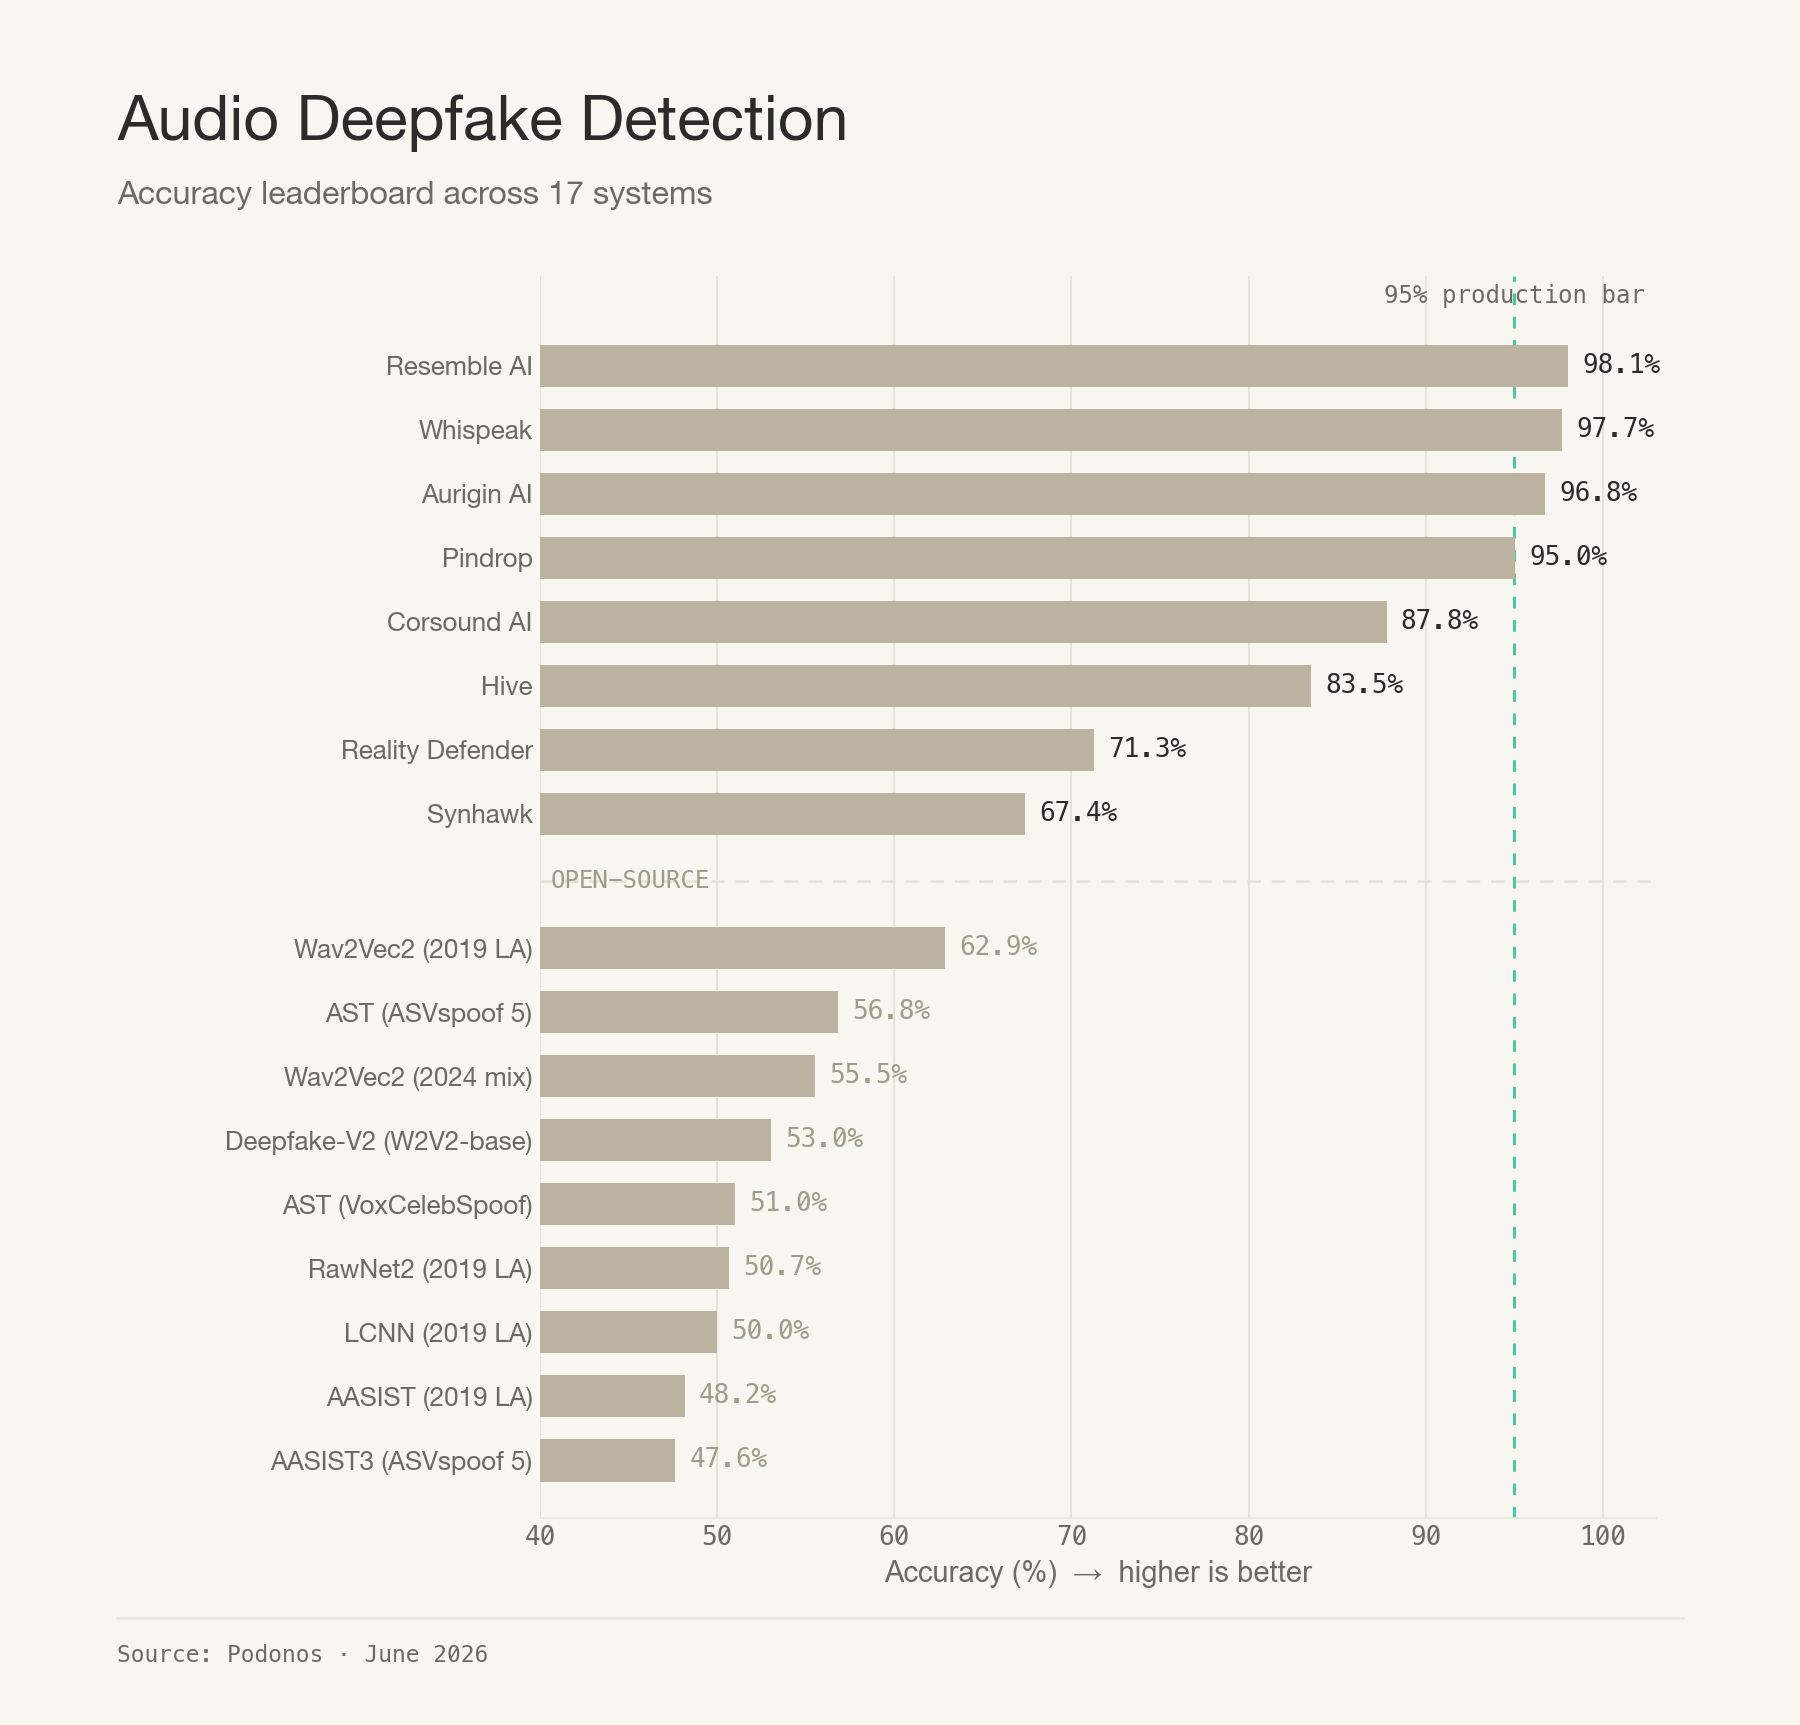
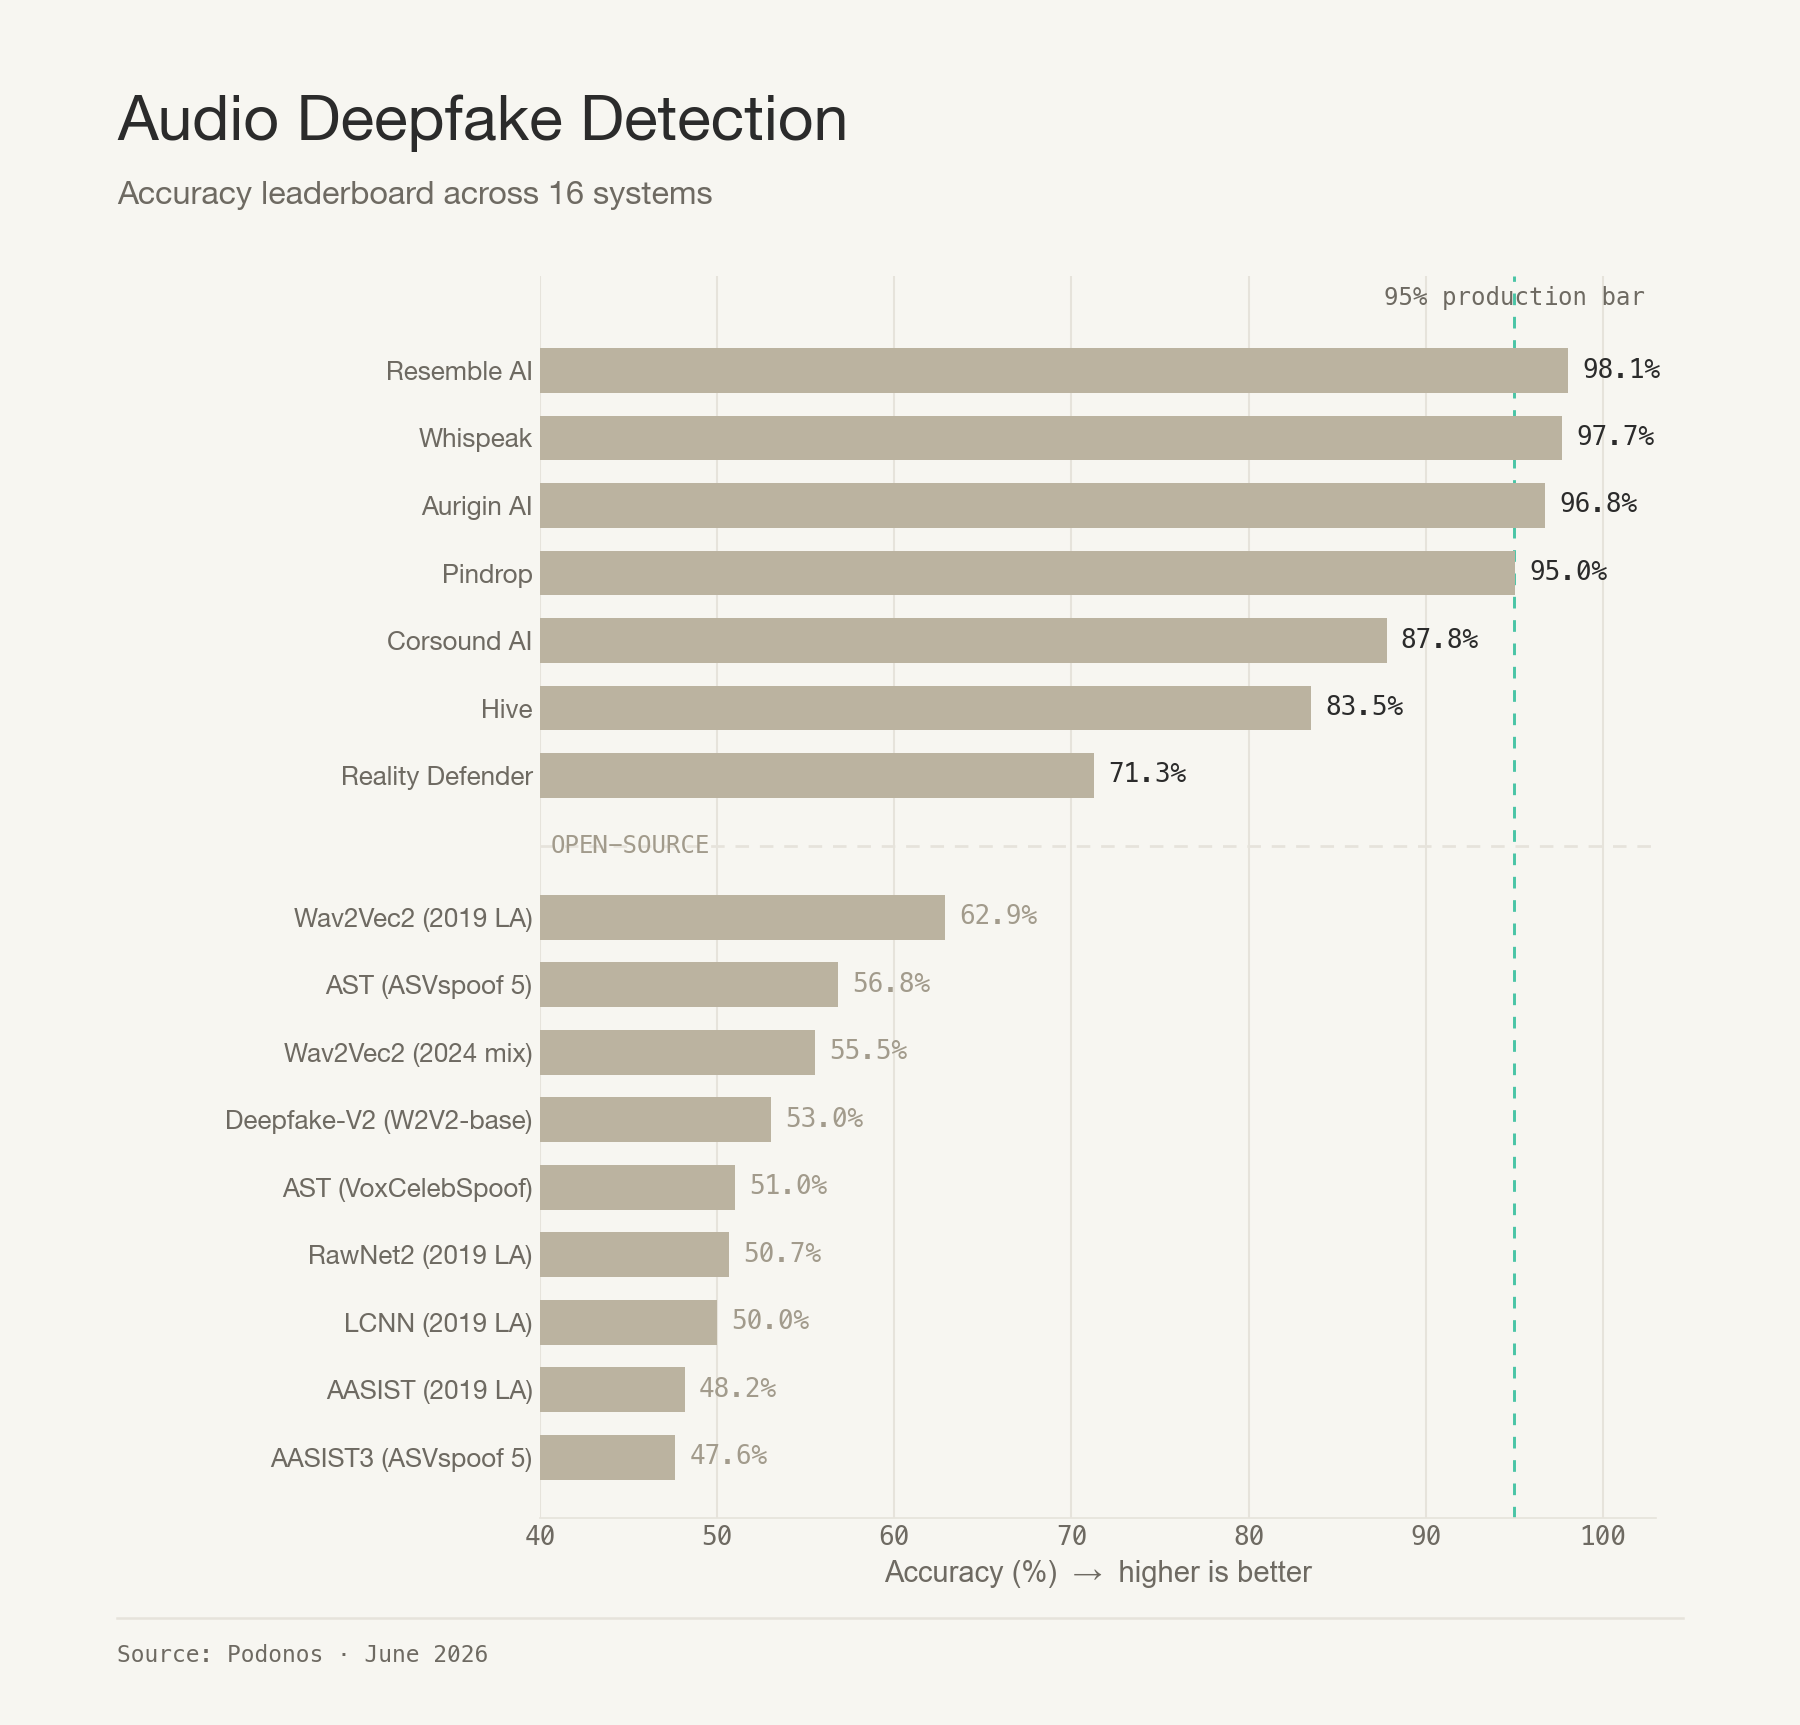
Error fix

diff --git a/README.md b/README.md
@@ -12,7 +12,7 @@ A neutral, public benchmark for evaluating audio deepfake detection systems on a
 
 ![Leaderboard — Accuracy](images/leaderboard_accuracy.png)
 
-**17 systems** evaluated — 8 commercial APIs (**bold**) and 9 open-source baselines — sorted by accuracy. Company and model names link to their source.
+**16 systems** evaluated: 7 commercial APIs (**bold**) and 9 open-source baselines, sorted by accuracy. Company and model names link to their source.
 
 | # | System | N | Rej% | Acc% | F1 | FPR% | FNR% | Lat(ms) | RTF |
 |---|--------|---|------|------|-----|------|------|---------|-----|
@@ -23,16 +23,15 @@ A neutral, public benchmark for evaluating audio deepfake detection systems on a
 | 5 | **[Corsound AI](https://www.corsound.ai)** | 3875 | 14.3% | 87.79% | 0.865 | 1.0% | 23.1% | 180 | 0.035 |
 | 6 | **[Hive](https://thehive.ai)** | 4524 | 0.0% | 83.53% | 0.808 | 2.4% | 30.5% | 881 | 0.34 |
 | 7 | **[Reality Defender](https://www.realitydefender.com)** | 3745 | 17.2% | 71.27% | 0.770 | 53.7% | 3.6% | 5,718 | 1.52 |
-| 8 | **[Synhawk](https://synhawk.com)** | 4524 | 0.0% | 67.37% | 0.722 | 50.0% | 15.2% | N/A | N/A |
-| 9 | [Wav2Vec2 (2019 LA)](https://huggingface.co/Gustking/wav2vec2-large-xlsr-deepfake-audio-classification) | 4524 | 0.0% | 62.89% | 0.514 | 13.4% | 60.8% | 622 | 0.14 |
-| 10 | [AST (ASVspoof 5)](https://huggingface.co/MattyB95/AST-ASVspoof5-Synthetic-Voice-Detection) | 4524 | 0.0% | 56.83% | 0.657 | 69.0% | 17.4% | 5 | 0.0017 |
-| 11 | [Wav2Vec2 (2024 mix)](https://huggingface.co/garystafford/wav2vec2-deepfake-voice-detector) | 4524 | 0.0% | 55.55% | 0.499 | 33.1% | 55.8% | 219 | 0.056 |
-| 12 | [Deepfake-V2 (W2V2-base)](https://huggingface.co/MelodyMachine/Deepfake-audio-detection-V2) | 4524 | 0.0% | 53.03% | 0.162 | 3.1% | 90.9% | 94 | 0.027 |
-| 13 | [AST (VoxCelebSpoof)](https://huggingface.co/MattyB95/AST-VoxCelebSpoof-Synthetic-Voice-Detection) | 4524 | 0.0% | 50.99% | 0.048 | 0.5% | 97.5% | 8 | 0.0030 |
-| 14 | [RawNet2 (2019 LA)](https://huggingface.co/MattyB95/pre_trained_DF_RawNet2) | 4524 | 0.0% | 50.66% | 0.430 | 35.9% | 62.7% | 94 | 0.035 |
-| 15 | [LCNN-LFCC (2019 LA)](https://huggingface.co/MattyB95/pre_trained_DF_LFCC-LCNN) | 4524 | 0.0% | 50.00% | 0.667 | 100.0% | 0.0% | 23 | 0.0056 |
-| 16 | [AASIST (2019 LA)](https://github.com/clovaai/aasist) | 4524 | 0.0% | 48.17% | 0.486 | 52.6% | 51.1% | 322 | 0.11 |
-| 17 | [AASIST3 (ASVspoof 5)](https://huggingface.co/lab260/AASIST3) | 4524 | 0.0% | 47.63% | 0.029 | 6.3% | 98.4% | 363 | 0.13 |
+| 8 | [Wav2Vec2 (2019 LA)](https://huggingface.co/Gustking/wav2vec2-large-xlsr-deepfake-audio-classification) | 4524 | 0.0% | 62.89% | 0.514 | 13.4% | 60.8% | 622 | 0.14 |
+| 9 | [AST (ASVspoof 5)](https://huggingface.co/MattyB95/AST-ASVspoof5-Synthetic-Voice-Detection) | 4524 | 0.0% | 56.83% | 0.657 | 69.0% | 17.4% | 5 | 0.0017 |
+| 10 | [Wav2Vec2 (2024 mix)](https://huggingface.co/garystafford/wav2vec2-deepfake-voice-detector) | 4524 | 0.0% | 55.55% | 0.499 | 33.1% | 55.8% | 219 | 0.056 |
+| 11 | [Deepfake-V2 (W2V2-base)](https://huggingface.co/MelodyMachine/Deepfake-audio-detection-V2) | 4524 | 0.0% | 53.03% | 0.162 | 3.1% | 90.9% | 94 | 0.027 |
+| 12 | [AST (VoxCelebSpoof)](https://huggingface.co/MattyB95/AST-VoxCelebSpoof-Synthetic-Voice-Detection) | 4524 | 0.0% | 50.99% | 0.048 | 0.5% | 97.5% | 8 | 0.0030 |
+| 13 | [RawNet2 (2019 LA)](https://huggingface.co/MattyB95/pre_trained_DF_RawNet2) | 4524 | 0.0% | 50.66% | 0.430 | 35.9% | 62.7% | 94 | 0.035 |
+| 14 | [LCNN-LFCC (2019 LA)](https://huggingface.co/MattyB95/pre_trained_DF_LFCC-LCNN) | 4524 | 0.0% | 50.00% | 0.667 | 100.0% | 0.0% | 23 | 0.0056 |
+| 15 | [AASIST (2019 LA)](https://github.com/clovaai/aasist) | 4524 | 0.0% | 48.17% | 0.486 | 52.6% | 51.1% | 322 | 0.11 |
+| 16 | [AASIST3 (ASVspoof 5)](https://huggingface.co/lab260/AASIST3) | 4524 | 0.0% | 47.63% | 0.029 | 6.3% | 98.4% | 363 | 0.13 |
 
 **Legend**:
 - **N** — number of evaluated audio files
@@ -60,7 +59,6 @@ Four production APIs separate themselves from the rest, all above 95 % accuracy 
 
 **Bottom tier (commercial) — high false-alarm rates:**
 - **Reality Defender** — 71.3 % accuracy with **FPR 53.7 %** (false-flags over half of all real audio). Also **rejects 17.2 % of files** — its engine cannot evaluate audio shorter than ~1.5 s — and runs **slower than real-time** (RTF 1.52).
-- **Synhawk** — 67.4 % accuracy with **FPR 50.0 %**: it labels half of genuine clips as fake. Acceptable fake-catching (FNR 15.2 %) but unusable false-alarm rate on real audio.
 
 **Open-source baselines — none generalize to modern TTS:**
 - All nine open-source models land in the **48–63 %** band — near random for binary classification. This holds *regardless of training era*: models trained on legacy **ASVspoof 2019 LA** and ones trained on newer **ASVspoof 5 / VoxCelebSpoof** both collapse on this distribution, which is dominated by current commercial voice-cloning systems (ElevenLabs, F5-TTS, Chatterbox, …).
@@ -72,7 +70,6 @@ Four production APIs separate themselves from the rest, all above 95 % accuracy 
 - Reality Defender's **RTF > 1.0** means it is slower than real-time — a 5-second clip takes ~7.6 s to process. Not viable for streaming.
 - Every other detector runs faster than real-time (RTF < 1). Among the accurate commercial systems, **Pindrop is the fastest (RTF 0.076)**; Resemble, Whispeak, Aurigin, and Hive land around RTF 0.33–0.40.
 - The open-source models run on local hardware (no network round-trip), so their low RTF reflects pure compute cost — but at this accuracy that speed buys little.
-- *(Synhawk latency was not captured in this run and is shown as N/A.)*
 
 ### Error Profile
 
@@ -217,7 +214,6 @@ Outputs the per-model breakdown including per-format accuracy and the leaderboar
 | [**Corsound AI**](https://www.corsound.ai) | Deepfake Detect | https://apis.corsound.ai/ |
 | [**Hive**](https://thehive.ai) | AI-generated audio detection | https://docs.thehive.ai/docs/ai-generated-audio-detection |
 | [**Reality Defender**](https://www.realitydefender.com) | RealAPI | https://docs.realitydefender.com |
-| [**Synhawk**](https://synhawk.com) | HAWK 7 | https://synhawk.com/products |
 
 ### Open-source baselines
 